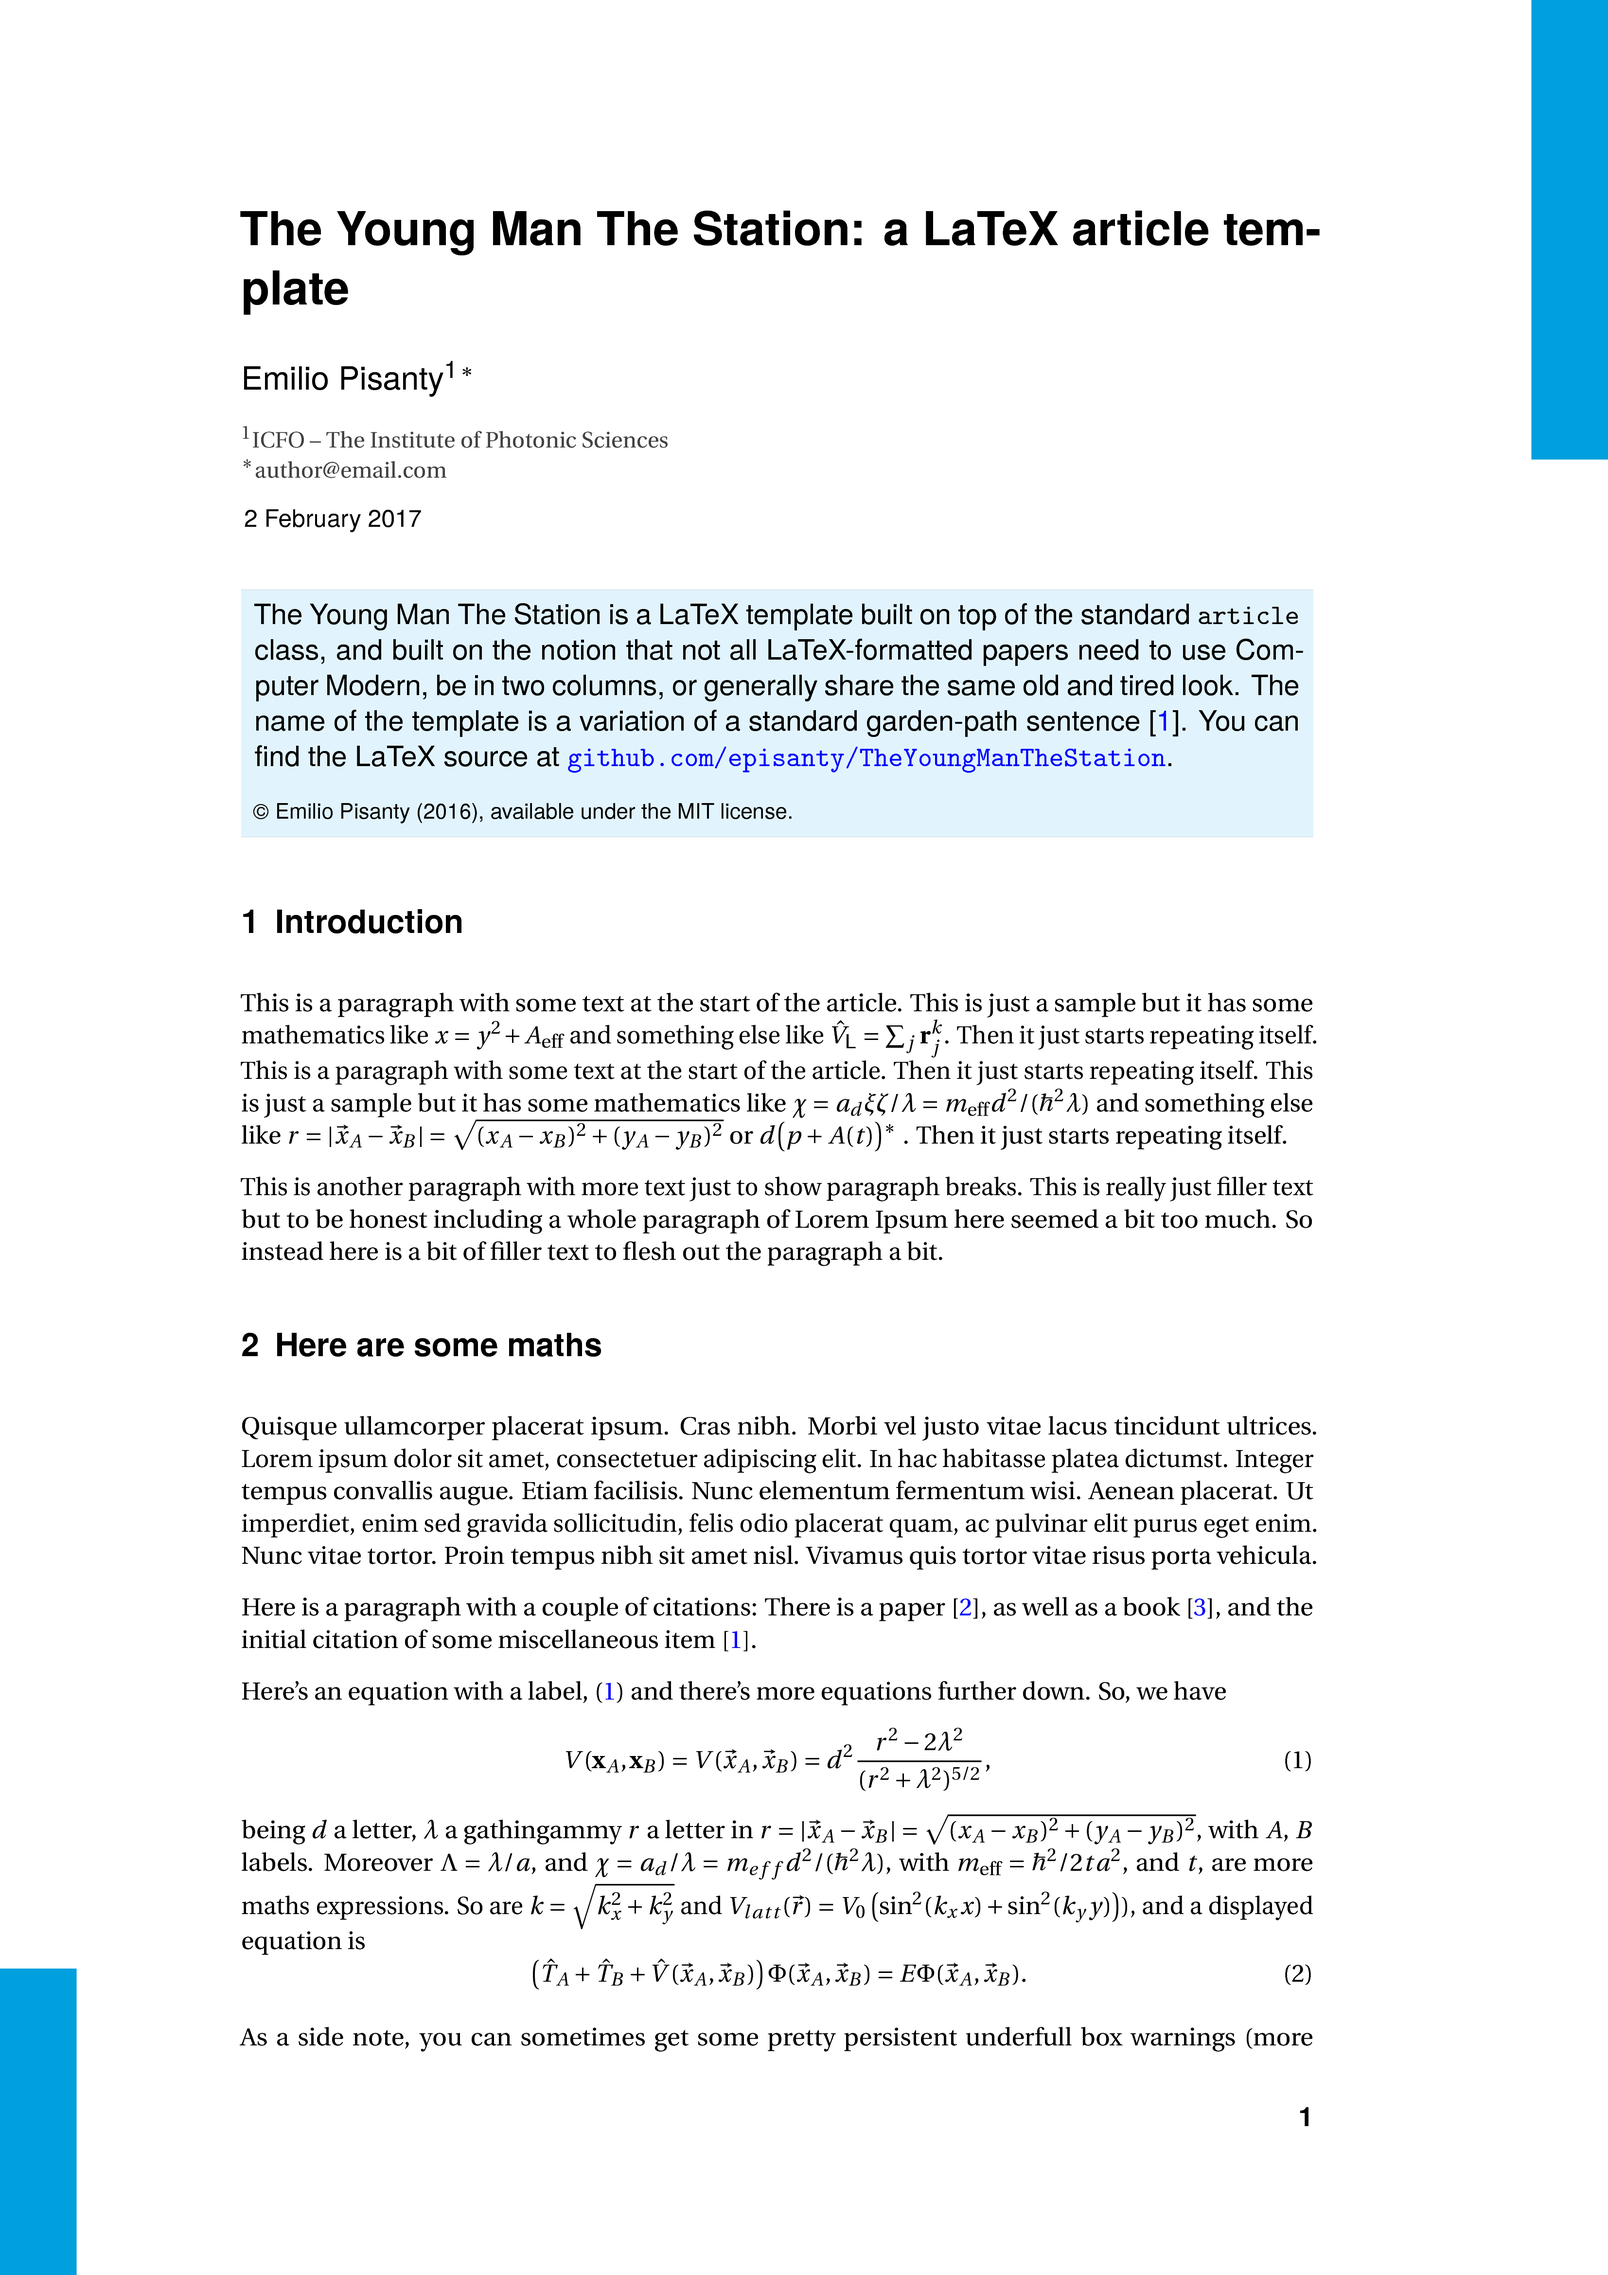
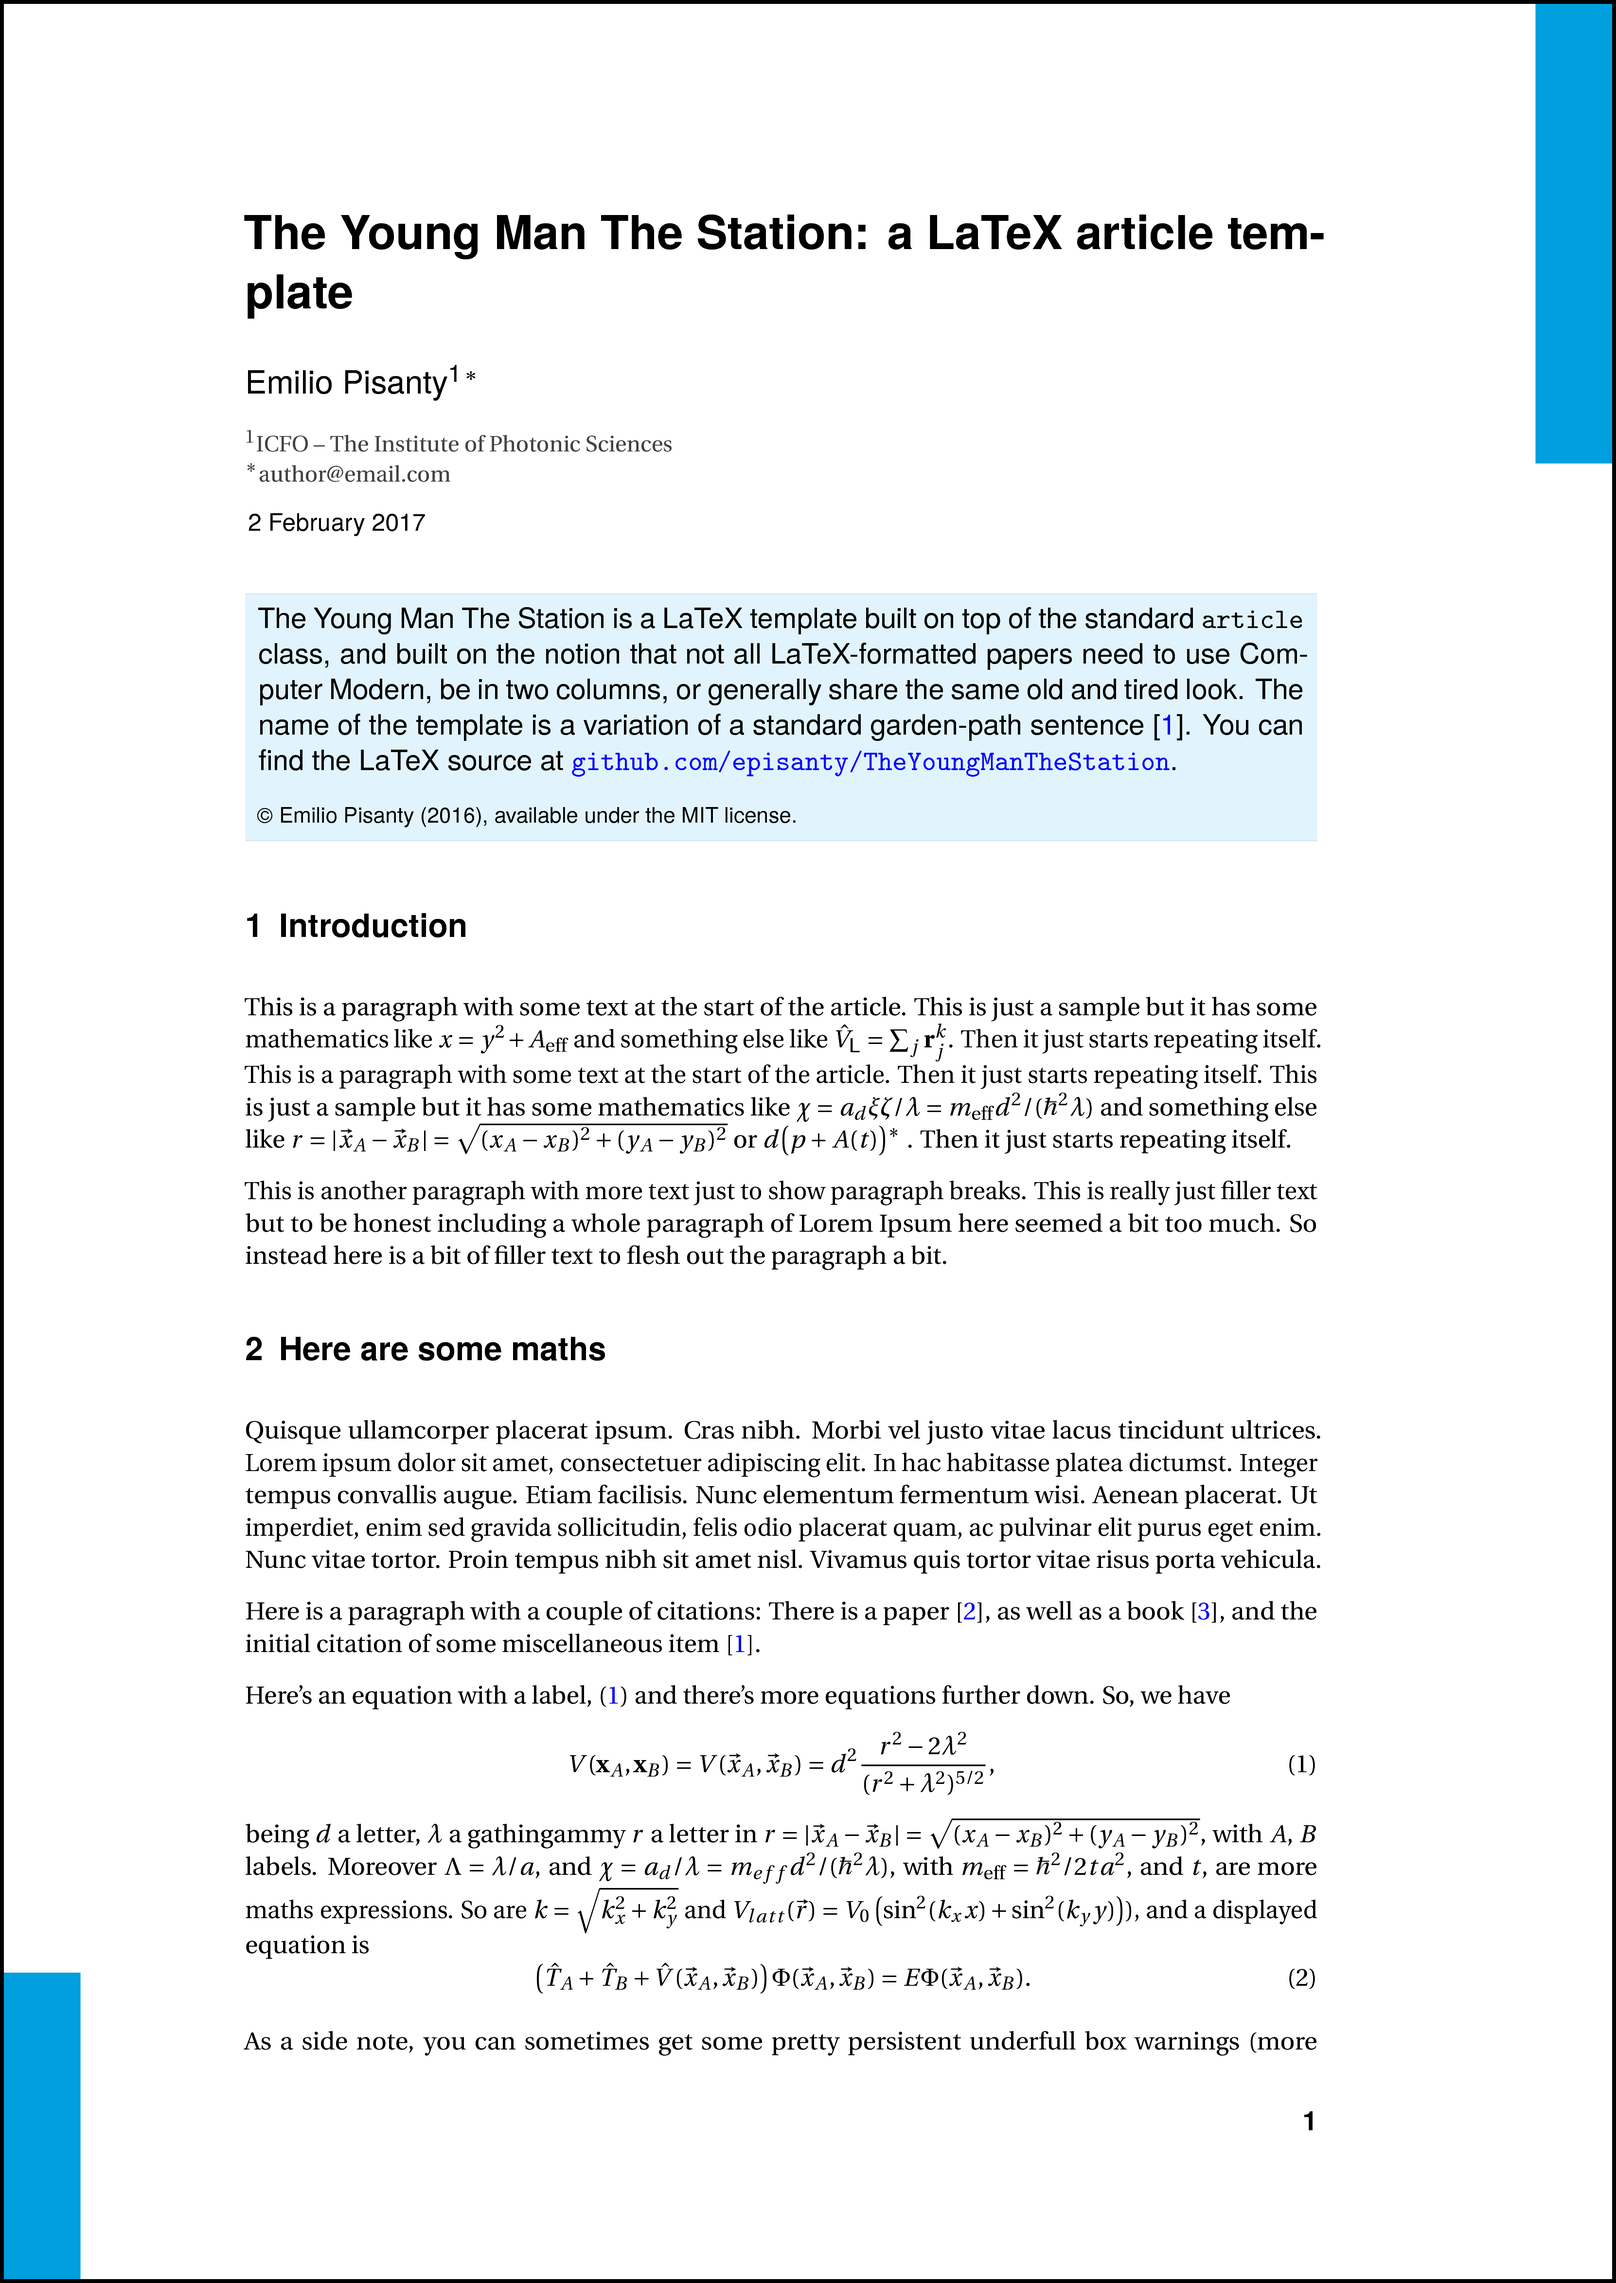
Fixes to readme.

diff --git a/README.md b/README.md
@@ -3,8 +3,10 @@ The Young Man The Station: a LaTeX article template
 
 The Young Man The Station is a LaTeX template built on top of the standard `article` class, and built on the notion that not all LaTeX-formatted papers need to use Computer Modern, be in two columns, or generally share the same old and tired look. The name of the template is a variation of a [standard garden-path sentence](https://www.youtube.com/watch?v=ldT2g2qDQNQ).
 
-You can download the source [here](https://github.com/episanty/TheYoungManTheStation/archive/master.zip), or you can [see](https://github.com/episanty/TheYoungManTheStation/blob/master/TheYoungManTheStation.pdf) and [download](https://github.com/episanty/TheYoungManTheStation/raw/master/TheYoungManTheStation.pdf) the pdf file to see how it looks.
+You can download the source [here](https://github.com/episanty/TheYoungManTheStation/archive/master.zip), or you can [see](https://github.com/episanty/TheYoungManTheStation/blob/master/TheYoungManTheStation.pdf) and [download](https://github.com/episanty/TheYoungManTheStation/raw/master/TheYoungManTheStation.pdf) the pdf file to see how it looks in more detail. For a starter, here is the first page:
 
 [<img src="https://github.com/episanty/TheYoungManTheStation/raw/master/TheYoungManTheStation.png" width="600" title="First page of the template">](https://github.com/episanty/TheYoungManTheStation/blob/master/TheYoungManTheStation.pdf)
+
+(Note that the border has been added for better visibility.
 
 © Emilio Pisanty (2016), available under the MIT license.
